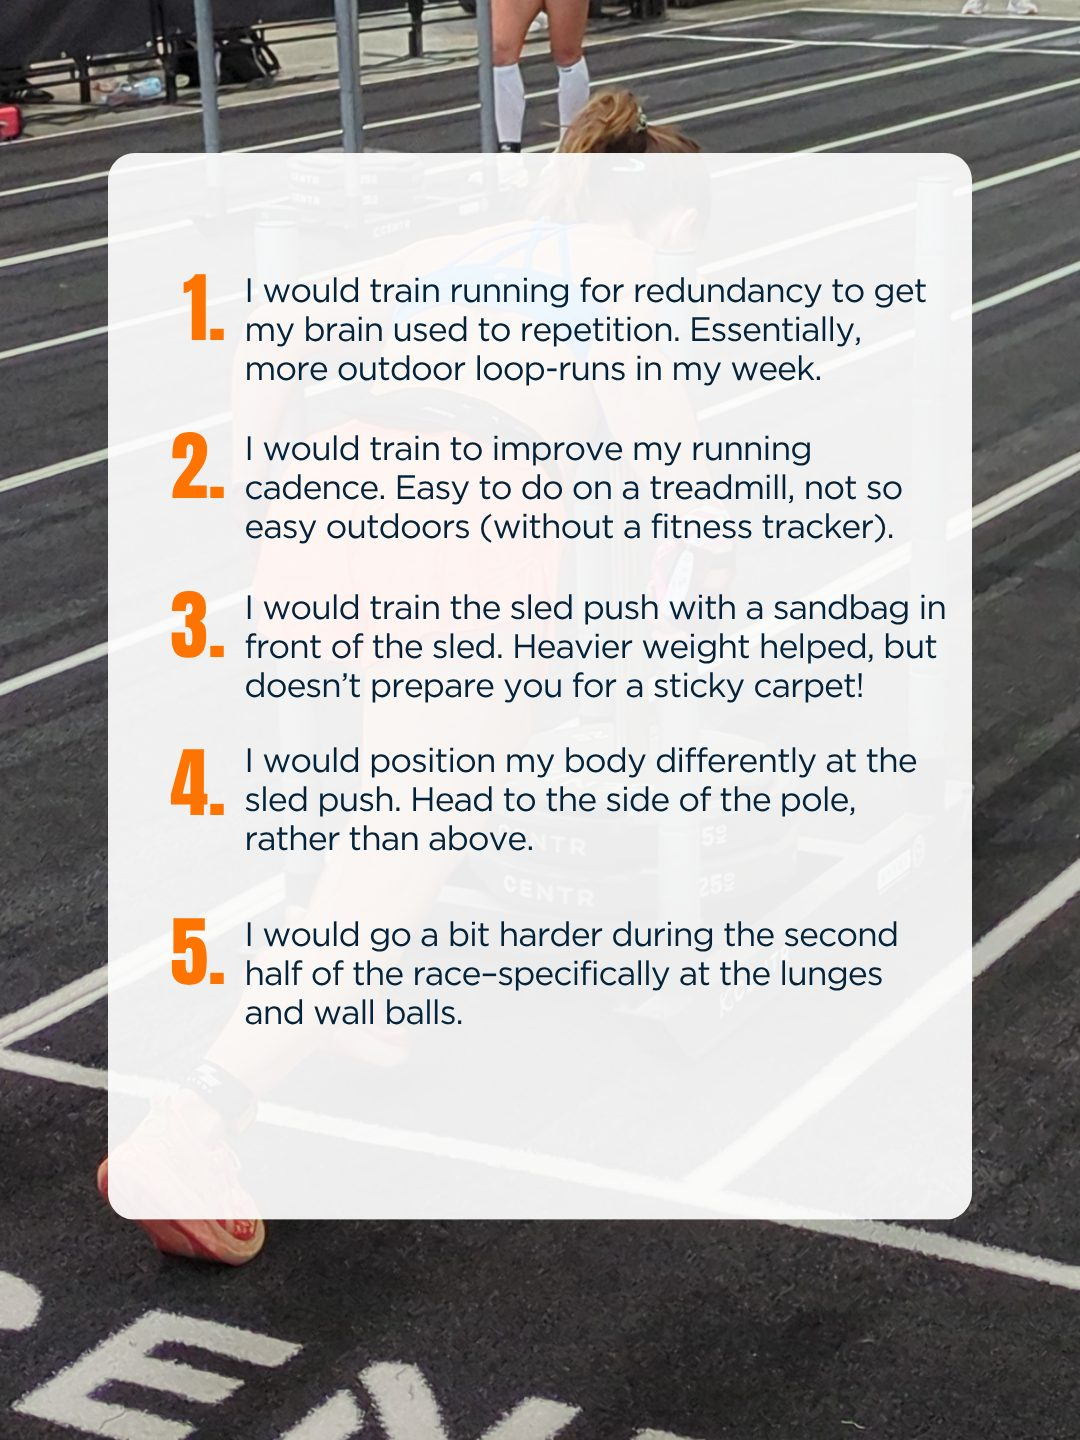
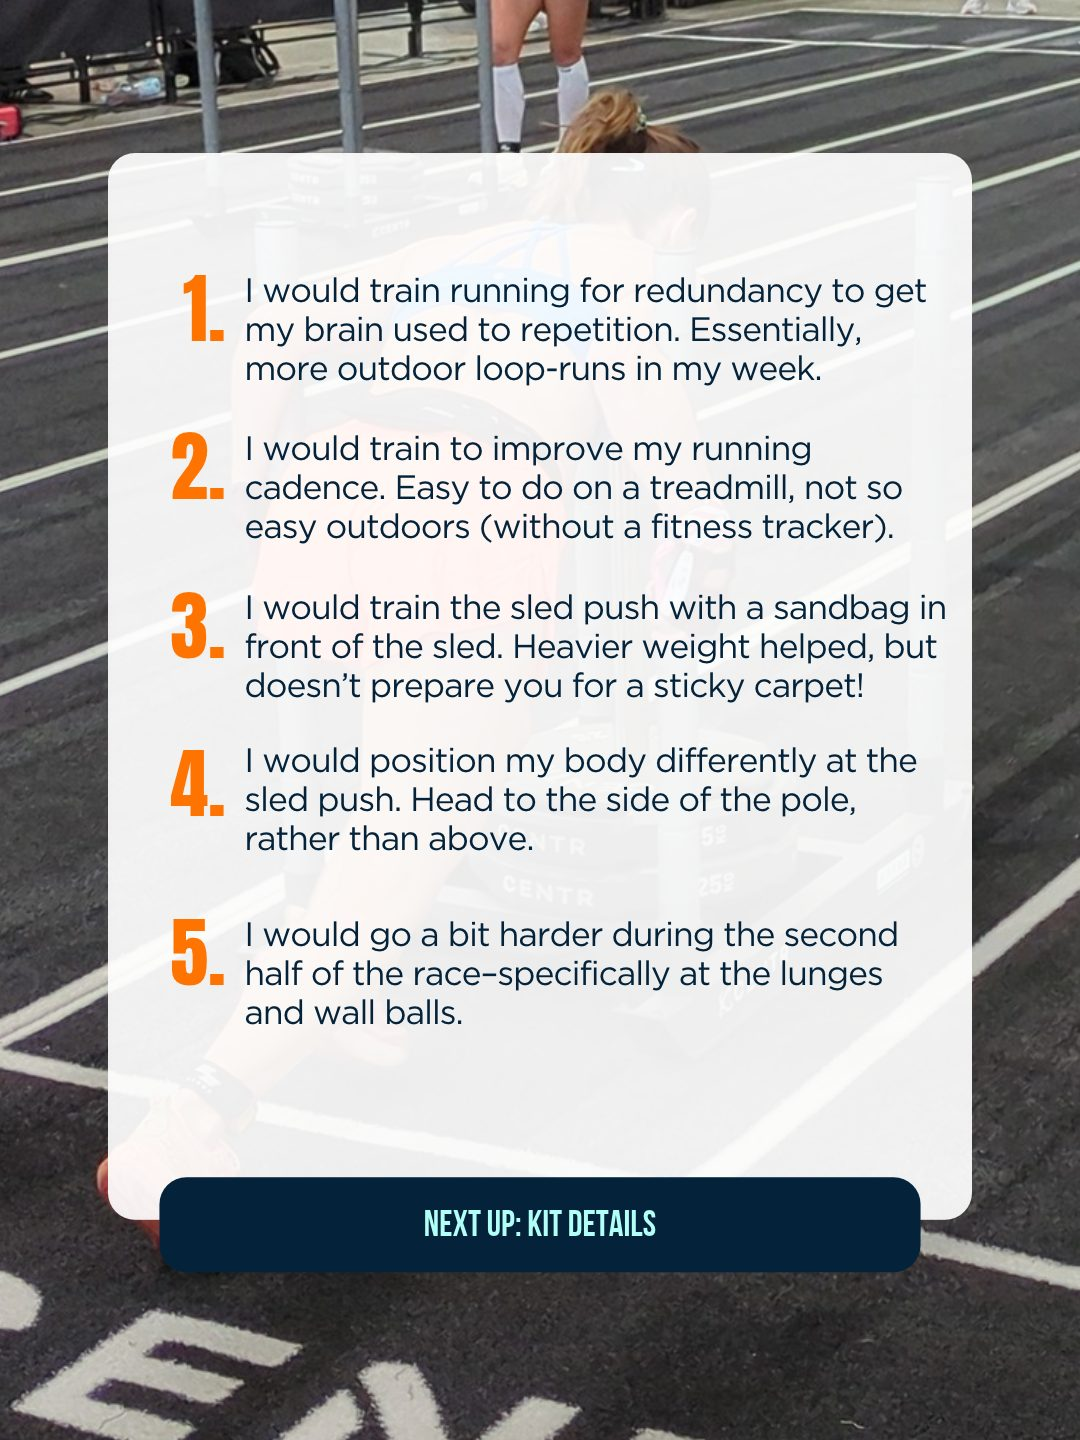
Append Hyrox slideshow slides 10–13 and refresh slide 8.

diff --git a/hyrox-top-five.html b/hyrox-top-five.html
@@ -19,7 +19,7 @@ hide_sidebar: true
         class="slideshow-image"
         data-slideshow-image
         src="{{ '/assets/images/projects/hyrox/1.jpg' | relative_url }}"
-        alt="Hyrox tip slide 1 of 8"
+        alt="Hyrox tip slide 1 of 12"
         width="1080"
         height="1440"
       >
@@ -30,7 +30,7 @@ hide_sidebar: true
     </button>
   </div>
 
-  <p class="slideshow-counter"><span data-slideshow-current>1</span> / <span data-slideshow-total>8</span></p>
+  <p class="slideshow-counter"><span data-slideshow-current>1</span> / <span data-slideshow-total>12</span></p>
 
   <div class="slideshow-dots" data-slideshow-dots role="tablist" aria-label="Choose slide"></div>
 </div>
@@ -44,7 +44,8 @@ hide_sidebar: true
 
 <script>
   window.HYROX_SLIDES = [
-    {% for i in (1..8) %}
+    {% assign slide_nums = "1,2,3,4,5,6,7,8,10,11,12,13" | split: "," %}
+    {% for i in slide_nums %}
     {% assign slide_path = '/assets/images/projects/hyrox/' | append: i | append: '.jpg' %}
     "{{ slide_path | relative_url }}"{% unless forloop.last %},{% endunless %}
     {% endfor %}
